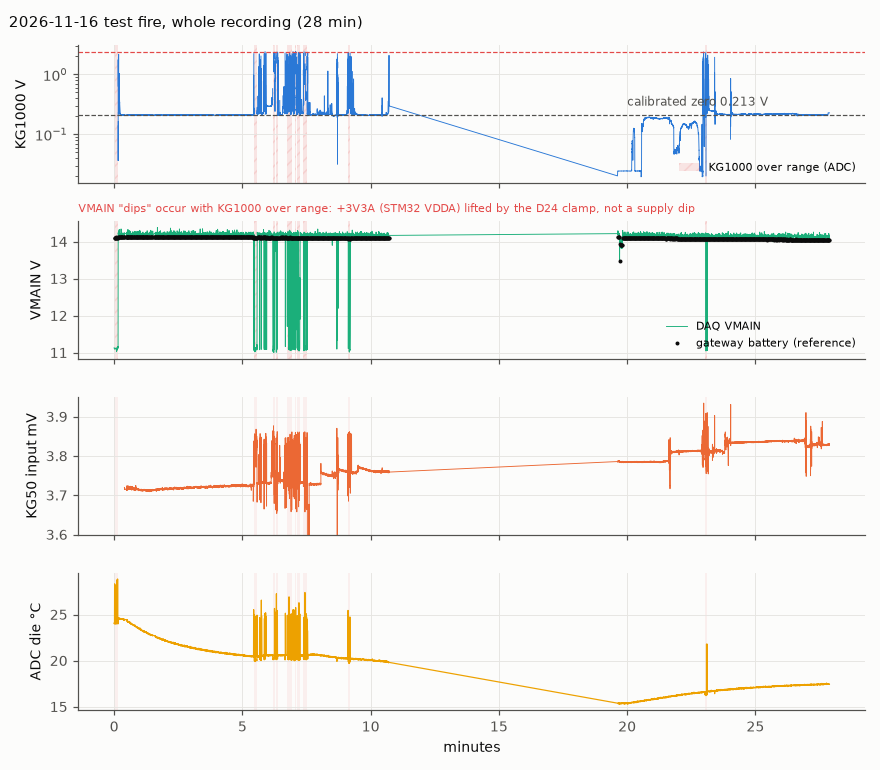
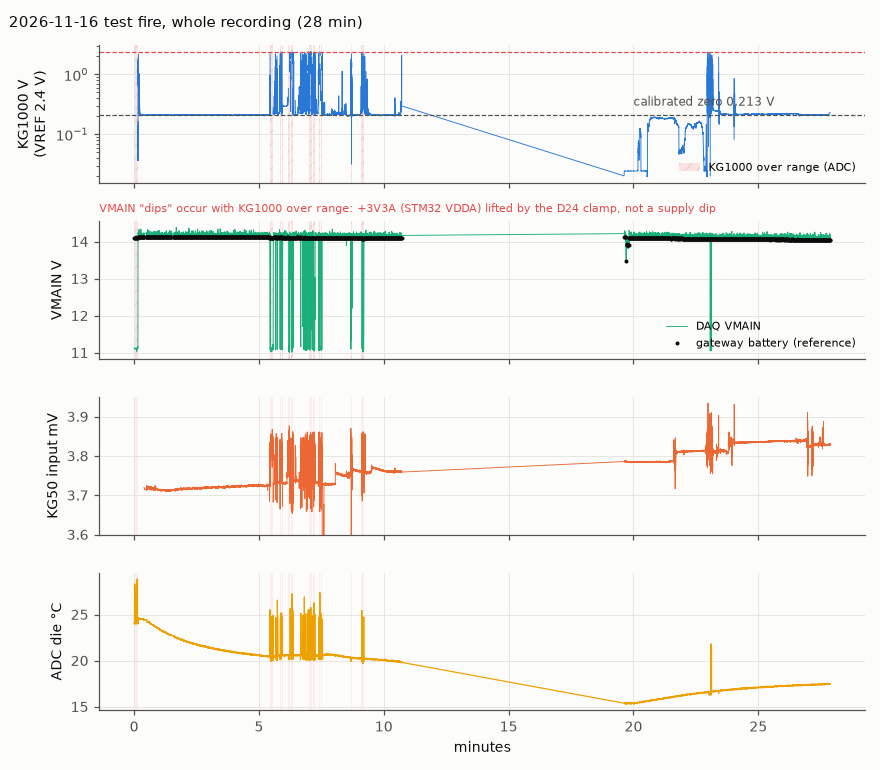
Load-cell investigation: MCP3564R reference is about 2.2 V on this DAQ
The firmware assumed 2.4 V, so MCP-derived volts in the recordings read
about 9 % high; ratiometric results (codes, over range, kg calibrations)
are unaffected and VMAIN (STM32 ADC1 against +3V3A) is unaffected. Note
the 0xB40000 plateau would be about 3.09 V at the pin and why that cannot
coexist with a 4.2 V +3V3A (open bench check). plots.py gains --mcp-vref
(default 2.4 V as recorded) and labels the reference on the axes.

diff --git a/tools/loadcell_investigation/plots.py b/tools/loadcell_investigation/plots.py
@@ -1,6 +1,10 @@
 #!/usr/bin/env python3
 """Figures for docs/loadcell-investigation-2026-11.md.
-Usage: plots.py NPZ_DIR OUT_DIR [FIGURE...]   (FIGURE: a function name below; default all)"""
+Usage: plots.py [--mcp-vref V] NPZ_DIR OUT_DIR [FIGURE...]   (FIGURE: a function name below; default all)
+--mcp-vref: the board's real MCP3564R reference for MCP-derived volts (KG1000, KG50). The
+recordings were converted with the nominal 2.4 V (the default); the fire-campaign DAQ's
+reference measures about 2.2 V, so its volts read about 9 % high. Codes, over range and
+kg calibrations are ratiometric and do not depend on it."""
 import sys, os
 import numpy as np
 import matplotlib
@@ -30,6 +34,13 @@ LEGACY_PER_CODE = 2.2104 / 2 ** 27
 OVER_RANGE_LABEL = 'KG1000 over range (ADC)'
 # Firmware of the time converted the STM32 ADC1 VMON channel assuming VDDA = +3V3A = 3.3 V.
 VDDA_ASSUMED = 3.3
+# Reference the recordings' MCP volts were converted with, and the one to plot them at.
+MCP_VREF_RECORDED = 2.4
+MCP_VREF = MCP_VREF_RECORDED
+
+def mcp_v(x):
+    """MCP-derived volts rescaled from the recorded 2.4 V reference to MCP_VREF."""
+    return np.asarray(x, float) * (MCP_VREF / MCP_VREF_RECORDED)
 
 def kg1000_code(raw):
     return np.asarray(raw, float) / LEGACY_PER_CODE
@@ -100,13 +111,14 @@ def fire_ignition(d, out):
                  f'(recording 2026-11-17 00:59:46 UTC + {FIRE_T0_OFFSET_MS / 1000:g} s)',
                  x=0.01, ha='left', fontsize=10, color=INK)
     m1 = win(t1); ov = over_range(kg1000_code(k1)); band = spans(rel(t1)[m1], ov[m1])
-    ax[0].plot(rel(t1)[m1], without(k1[m1] * K, ov[m1]), color=BLUE); ax[0].axhline(2.4, color=RED, lw=0.8, ls='--')
-    ax[0].set_ylabel('DAQ KG1000\nADC-pin V'); ax[0].text(lo_s + 0.2, 2.45, 'ADC full scale 2.4 V', color=RED, fontsize=8)
+    ax[0].plot(rel(t1)[m1], without(mcp_v(k1[m1] * K), ov[m1]), color=BLUE); ax[0].axhline(MCP_VREF, color=RED, lw=0.8, ls='--')
+    ax[0].set_ylabel(f'DAQ KG1000\nADC-pin V\n(VREF {MCP_VREF:g} V)')
+    ax[0].text(lo_s + 0.2, MCP_VREF + 0.05, f'ADC full scale = VREF = {MCP_VREF:g} V', color=RED, fontsize=8)
     ax[0].set_ylim(0, 2.9)
-    ax[0].text(lo_s + 0.2, 1.2, 'over range: code > 2^23−1 (plateau 0xB40000, the old "3.375 V"),\n'
-               'an overloaded ADC code, not a reading; not plotted', fontsize=8, color=RED)
+    ax[0].text(lo_s + 0.2, 1.2, f'over range: code > 2^23−1 (plateau 0xB40000 = 1.40625 × full scale, '
+               f'"{1.40625 * MCP_VREF:.3f} V"),\nan overloaded ADC code, not a reading; not plotted', fontsize=8, color=RED)
     t5, k5 = s(z, 'DAQ|KG50'); m5 = win(t5)
-    ax[1].plot(rel(t5)[m5], k5[m5] * 1000, color=ORANGE); ax[1].set_ylabel('DAQ KG50 (P6)\ninput mV')
+    ax[1].plot(rel(t5)[m5], mcp_v(k5[m5]) * 1000, color=ORANGE); ax[1].set_ylabel('DAQ KG50 (P6)\ninput mV')
     tp, vm = s(z, 'DAQ|DAQ_POWER_MONITOR', 2); mp = win(tp)
     ax[2].plot(rel(tp)[mp], vm[mp], color=AQUA, marker='.', ms=2, lw=0.8); ax[2].set_ylabel('DAQ VMAIN V\n(4 Hz)')
     tg, vg = s(z, 'GB|BATTERY_VOLTAGE'); mg = win(tg)
@@ -138,7 +150,7 @@ def fire_ignition(d, out):
     ax[5].text(0.2, 300, 'KG1000 back in range, VMAIN\nartifact ends / burn starts', fontsize=8, color=MUTED)
     fig.tight_layout(); fig.savefig(os.path.join(out, 'fire-20261116-ignition.png'), dpi=110); plt.close(fig)
     write_wide_csv(os.path.join(out, 'fire-20261116-ignition.csv'), T0,
-                   [('kg1000_adc_pin_v', t1[m1], k1[m1] * K), ('kg50_p6_input_mv', t5[m5], k5[m5] * 1000),
+                   [('kg1000_adc_pin_v', t1[m1], mcp_v(k1[m1] * K)), ('kg50_p6_input_mv', t5[m5], mcp_v(k5[m5]) * 1000),
                     ('vmain_v', tp[mp], vm[mp]), ('gb_battery_v', tg[mg], vg[mg]),
                     ('gb_battery_a', ti[mi], ig[mi]), ('ox_tank_psi', tf[mf], fp[mf])])
 
@@ -176,8 +188,8 @@ def kg1000_log_panels(z, title, n):
     mins = lambda t: (t - t0) / 60000.0
     ov = over_range(kg1000_code(k1)); band = spans(mins(t1), ov)
     fig, ax = panels(n, title)
-    ax[0].plot(mins(t1), without(k1 * K, ov), color=BLUE, lw=0.6); ax[0].set_ylabel('KG1000 V'); ax[0].set_yscale('log')
-    ax[0].axhline(2.4, color=RED, lw=0.8, ls='--')
+    ax[0].plot(mins(t1), without(mcp_v(k1 * K), ov), color=BLUE, lw=0.6); ax[0].set_ylabel(f'KG1000 V\n(VREF {MCP_VREF:g} V)')
+    ax[0].set_yscale('log'); ax[0].axhline(MCP_VREF, color=RED, lw=0.8, ls='--')
     tp, vm = s(z, 'DAQ|DAQ_POWER_MONITOR', 2)
     ax[1].plot(mins(tp), vm, color=AQUA, lw=0.6, label='DAQ VMAIN'); ax[1].set_ylabel('VMAIN V')
     battery_reference(ax[1], z, mins)
@@ -192,21 +204,25 @@ def fire_overview(d, out):
     """Whole 11-16 fire recording: KG1000, DAQ VMAIN, KG50 and the ADC die temperature on
     one minutes axis from the first KG1000 sample. Also writes every plotted sample to
     fire-20261116-overview.csv (wide, full resolution; see write_wide_csv): kg1000_adc_pin_v
-    (including the over-range samples the figure leaves out), vmain_v, kg50_p6_input_mv (only after 0.4 min, as plotted; the panel's y-limits 3.6-3.95 mV clip
-    a few points that are still in the CSV) and adc_die_temp_c. The dashed 0.2126 V
+    (including the over-range samples the figure leaves out), vmain_v, kg50_p6_input_mv
+    (only after 0.4 min, as plotted; the panel's y-limits 3.6-3.95 mV clip a few points
+    that are still in the CSV) and adc_die_temp_c; MCP volts at --mcp-vref, as plotted. The dashed 0.2126 V
     calibrated-zero line is a constant and not a CSV column."""
     z = load(d, '2026-11-17_00-59-46_065')
     fig, ax, mins = kg1000_log_panels(z, '2026-11-16 test fire, whole recording (28 min)', 4)
-    ax[0].axhline(0.2126, color=MUTED, lw=0.8, ls='--'); ax[0].text(20, 0.3, 'calibrated zero 0.213 V', fontsize=8, color=MUTED)
+    z0 = float(mcp_v(0.2126)); ax[0].axhline(z0, color=MUTED, lw=0.8, ls='--')
+    ax[0].text(20, 0.3, f'calibrated zero {z0:.3f} V', fontsize=8, color=MUTED)
     t5, k5 = s(z, 'DAQ|KG50'); g = mins(t5) > 0.4
-    ax[2].plot(mins(t5)[g], k5[g] * 1000, color=ORANGE, lw=0.6); ax[2].set_ylabel('KG50 input mV'); ax[2].set_ylim(3.6, 3.95)
+    ax[2].plot(mins(t5)[g], mcp_v(k5[g]) * 1000, color=ORANGE, lw=0.6); ax[2].set_ylabel('KG50 input mV')
+    ax[2].set_ylim(*mcp_v([3.6, 3.95]))
     tt, tc = s(z, 'DAQ|DAQ_ADC_TEMPERATURE')
     ax[3].plot(mins(tt), tc, color=YELLOW, lw=0.8); ax[3].set_ylabel('ADC die °C'); ax[3].set_xlabel('minutes')
     fig.tight_layout(); fig.savefig(os.path.join(out, 'fire-20261116-overview.png'), dpi=110); plt.close(fig)
     t1, k1 = s(z, 'DAQ|KG1000')
     tp, vm = s(z, 'DAQ|DAQ_POWER_MONITOR', 2)
     write_wide_csv(os.path.join(out, 'fire-20261116-overview.csv'), t1[0],
-                   [('kg1000_adc_pin_v', t1, k1 * K), ('vmain_v', tp, vm), ('kg50_p6_input_mv', t5[g], k5[g] * 1000), ('adc_die_temp_c', tt, tc)])
+                   [('kg1000_adc_pin_v', t1, mcp_v(k1 * K)), ('vmain_v', tp, vm),
+                    ('kg50_p6_input_mv', t5[g], mcp_v(k5[g]) * 1000), ('adc_die_temp_c', tt, tc)])
 
 def rail_1106(d, out):
     z = load(d, '2026-11-06_22-51-01_544')
@@ -248,10 +264,13 @@ def kg50_cross_check(d, out):
     fig.tight_layout(); fig.savefig(os.path.join(out, 'kg50-p6-cross-check.png'), dpi=110); plt.close(fig)
 
 if __name__ == '__main__':
-    d, out = sys.argv[1], sys.argv[2]
+    args = sys.argv[1:]
+    if args[:1] == ['--mcp-vref']:
+        MCP_VREF = float(args[1]); args = args[2:]
+    d, out = args[0], args[1]
     os.makedirs(out, exist_ok=True)
     figs = {'fire_ignition': lambda: fire_ignition(d, out), 'fire_overview': lambda: fire_overview(d, out),
             'rail_1106': lambda: rail_1106(d, out), 'calibration_steps': lambda: calibration_steps(out),
             'kg50_cross_check': lambda: kg50_cross_check(d, out)}
-    for name in sys.argv[3:] or figs:
+    for name in args[2:] or figs:
         figs[name]()

diff --git a/tools/loadcell_investigation/test_plots.py b/tools/loadcell_investigation/test_plots.py
@@ -36,6 +36,15 @@ class OverRangeTests(unittest.TestCase):
         # The run before the 4 -> 100 gap stops one sample interval later; the last run likewise.
         self.assertEqual(plots.spans(x, m), [(0.0, 2.0), (4.0, 5.0), (101.0, 102.0)])
 
+    def test_mcp_vref_rescales_volts_only(self):
+        self.assertEqual(plots.mcp_v(2.4).item(), 2.4)  # default: as recorded
+        old = plots.MCP_VREF
+        try:
+            plots.MCP_VREF = 2.2
+            self.assertAlmostEqual(plots.mcp_v(3.375).item(), 3.09375)
+        finally:
+            plots.MCP_VREF = old
+
     def test_without_breaks_line(self):
         y = plots.without(np.array([1.0, 2.0, 3.0]), np.array([False, True, False]))
         self.assertTrue(np.isnan(y[1]))

diff --git a/docs/loadcell-investigation-2026-11.md b/docs/loadcell-investigation-2026-11.md
@@ -97,6 +97,31 @@ when the cell is excited, 0.17–0.19 V on the bench.
 "VMAIN min" is the DAQ's own reading. The 10.31 V and 11.00 V minima are not real battery
 voltages: they were read while +3V3A was lifted (§2.3).
 
+### 1.1 MCP3564R reference: ≈2.2 V on this DAQ, not 2.4 V (added 2026-11-23)
+
+This DAQ's MCP3564R internal reference measures **≈2.2 V**, not the nominal 2.4 V. It
+drifted after heat during a board repair, and the board is due for repair in December. The
+firmware assumed 2.4 V, so **every MCP3564R volt in these recordings reads ≈9 % high**
+(2.4 / 2.2 = 1.091). That covers KG1000/AMP2 pin volts, the P6 KG50 input, the single-ended
+P6 legs, the chamber PT and the other HVAIN inputs, and the ADC die temperature.
+
+- **Ratiometric results are unaffected.** Codes, over range (|code| > 2²³ − 1), the kg
+  calibrations fitted on those volts, the KG50 vs (CH2 − CH3) ratio, step sensitivities, R²,
+  correlations and drift in kg are all ratios to the same code scale. None of the
+  conclusions that rest on them change.
+- **Absolute volts are ≈9 % high.** Examples: the KG1000 zero 0.209 V is ≈0.19 V at the pin,
+  the bench AMP1 bias 0.2277 V is ≈0.209 V, the P6 common mode 1.137 V is ≈1.04 V, and the
+  chamber psig (connector V × 200) was ≈9 % high. Numbers in this report are left as
+  recorded; where an absolute volt matters it is marked.
+- **VMAIN is not affected.** It is measured by the STM32 ADC1 against VDDA/VREF+ = +3V3A, not
+  against the MCP reference. The +3V3A estimates in §2.3.2 (≈4.19 V fire, ≈4.18 V 11-06)
+  are unchanged by this correction.
+- The firmware now takes the reference from a per-board GS setting (`DAQ_MCP_REFERENCE`,
+  default 2.4 V; this station 2.2 V, "measured approx., re-measure after the December
+  repair"). It is recorded in DAQ_INPUT_HEALTH word 27 and on the SD card as `mcp_vref_v`.
+- The figures keep the recorded 2.4 V scale and say so on the axis. `plots.py --mcp-vref 2.2`
+  redraws the MCP-derived volts at this board's reference.
+
 ## 2. Findings with evidence
 
 ### 2.1 KG50 was the P6 differential input in every site session
@@ -113,8 +138,8 @@ This settles several things:
 - **The sensor chain was stable across sessions.**
   - The ratio between two independent ADC paths stays within ±1 %, so the PGA and
     reference did not change.
-  - The bridge common mode stays at 1.137 ± 0.001 V, so excitation from `+VREF_BUF` is
-    stable to ~0.1 %.
+  - The bridge common mode stays at 1.137 ± 0.001 V (≈1.04 V real, §1.1), so excitation
+    from `+VREF_BUF` is stable to ~0.1 %.
   - A wiring fault that changes sensitivity (high-resistance excitation pin, open sense
     lead) would move the common mode or the ratio. Neither moved.
 - **The 12 915 calibration was a P6-volts calibration.** It is not an AMP2 raw-count one.
@@ -140,9 +165,11 @@ migration (legacy raw × 16000/921).
 
 **KG1000.** The calibration is sound for what it covers.
 
-- The zero is 0.2126 V, against an AMP1 nominal bias of 0.218 V.
+- The zero is 0.2126 V, against an AMP1 nominal bias of 0.218 V. (At the ≈2.2 V reference
+  of §1.1 the zero is ≈0.195 V at the pin.)
 - 545.8 kg/V implies 1.83 mV/V at 9.6 V excitation and 100.9× gain, which is physical for
-  a 2 mV/V cell. This also confirms the legacy-raw→volts factor k = 16000/921.
+  a 2 mV/V cell. (With the ≈2.2 V reference the volts per kg are ≈9 % lower, ≈1.68 mV/V;
+  still physical. The kg calibration itself is ratiometric and unaffected.) This also confirms the legacy-raw→volts factor k = 16000/921.
 - It covers only 10 % of the 1000 kg range and has never been checked against thrust.
 
 **KG50.** The points are inconsistent in a way electronics cannot explain.
@@ -213,9 +240,10 @@ shade their intervals (hatched, "KG1000 over range (ADC)") in every panel.
 
 #### 2.3.1 The "3.375 V" plateau is an over-range code, not a reading
 
-KG1000 sat at code **0xB40000** = +11 796 480 = 1.40625 × 2²³. On the 2.4 V scale that is
-1.40625 × 2.4 V = 3.375 V, which earlier versions of this report and its plots gave as a
-voltage. The MCP3564R datasheet (DS20006391C) says it is not one:
+KG1000 sat at code **0xB40000** = +11 796 480 = 1.40625 × 2²³, i.e. 1.40625 × full scale.
+On the assumed 2.4 V scale that is 1.40625 × 2.4 V = 3.375 V, which earlier versions of
+this report and its plots gave as a voltage. With this board's real ≈2.2 V reference
+(§1.1) the same code would be ≈3.09 V. The MCP3564R datasheet (DS20006391C) says it is not one:
 
 - **§5.6 "ADC Output Data Format"** (p. 48–49, Tables 5-7 and 5-8, Figure 5-8) and the
   CONFIG3 `DATA_FORMAT[1:0]` description (§8):
@@ -226,7 +254,8 @@ voltage. The MCP3564R datasheet (DS20006391C) says it is not one:
     [−2·VREF, +2·VREF − 1 LSb], and codes saturate at 0x0FFFFFF (+16 777 215) /
     0x1000000 (−16 777 216).
   - "The ADC accuracy is not maintained on the full extended range, but only on a smaller
-    range, which is approximately equal to ±1.05 × VREF." That is ±2.52 V here.
+    range, which is approximately equal to ±1.05 × VREF." That is ±2.31 V at the real
+    ≈2.2 V reference (±2.52 V at the nominal 2.4 V).
   - There is **no over-range status bit**. Over range is visible only as
     |code| > 2²³ − 1.
 - **§3.2**: "The differential input voltage should not exceed an absolute of ±VREF/GAIN for
@@ -235,7 +264,8 @@ voltage. The MCP3564R datasheet (DS20006391C) says it is not one:
   Absolute maximum ratings: AVDD −0.3 to 4.0 V; analog inputs −0.3 V to AVDD + 0.3 V.
 
 So 0xB40000 is neither a measurement nor the documented clip: the 25-bit clip would be
-0x0FFFFFF (≈4.8 V equivalent), and 3.375 V is far outside the ±1.05·VREF accuracy range.
+0x0FFFFFF (≈4.4 V equivalent at 2.2 V, ≈4.8 V at 2.4 V), and 1.40625 × VREF is far outside
+the ±1.05·VREF accuracy range.
 It is an **over-range (overloaded) code**.
 
 - The code is bit-exact and constant, with its low 18 bits zero, and held for seconds at
@@ -245,7 +275,18 @@ It is an **over-range (overloaded) code**.
   drop by D24 (§2.3.2).
 - The reference did not collapse. A collapsing VREF would make the codes larger, noisy and
   tracking VMAIN, not one fixed code. The internal 2.4 V bandgap is specified for AVDD
-  2.7–3.6 V.
+  2.7–3.6 V. (Its static ≈2.2 V value on this board, §1.1, is a separate, permanent offset
+  from the repair, not a collapse during the intervals.)
+**Plateau as a pin voltage: 3.09 V vs the +3V3A lift (open check).** Rescaled to the real
+reference, the plateau is ≈3.09 V. Read as a pin voltage, that fits a Schottky (D24) clamp
+to an *un-lifted* +3V3A of ≈2.9–3.3 V better than 3.375 V did. But under the lift
+hypothesis (§2.3.2) +3V3A was ≈4.2 V during those same intervals, which would put the D24
+clamp, and the MCP's own AVDD + 0.3 V input limit, well above 3.09 V. Both cannot describe
+the same instant. This supports reading the plateau as an overloaded-modulator code with no
+defined meaning (beyond ±1.05·VREF), not as a pin voltage. The alternative is that the lift
+was smaller or intermittent. The bench test (§2.3.4) settles it by scoping AMP1_OUT at the
+MCP pin, +3V3A and REFIN+ together.
+
 - On 11-06 the same plateau reads 0xB3FFFA–0xB3FFFE after the legacy float round trip,
   i.e. the same code.
 - Over range in the recordings: 2 259 of 45 300 KG1000 samples at the fire, 416 of 16 948
@@ -271,7 +312,9 @@ through ≈2.2 kΩ and 100 Ω, feeds MCP3564R CH0 and is clamped to +3V3A by Sch
 5. The MCP3564R's AVDD is +3V3A too, so its die-temperature sensor and reference-dependent
    readings move in the same intervals.
 
-**Arithmetic.** The battery voltage is known independently from the gateway (§2.3.3):
+**Arithmetic.** The battery voltage is known independently from the gateway (§2.3.3).
+VMON goes through the STM32 ADC1 against +3V3A, not through the MCP3564R, so the MCP
+reference correction (§1.1) does not change any of these numbers:
 
 | | DAQ VMAIN read (median) | Gateway battery | VMAIN / battery | Implied +3V3A = 3.3 V × battery / VMAIN |
 |---|---|---|---|---|
@@ -333,7 +376,8 @@ low" (< 3.15 V) faults. The GS warns, critical above 3.6 V.
 - **The MCP3564R moves with it.** Its die-temperature reading jumped about +5 °C in each
   interval, and KG50 (on the same ADC) showed ±0.1 mV spikes plus +0.1/+0.36 kg steps that
   persisted. Its single-ended P6 readings (CH2, CH3) read 2.2 % higher (1.139 → 1.165 V
-  median). The P6 bridge is ratiometric to the MCP reference, so this points at the ADC,
+  median, as recorded; ≈1.04 → 1.07 V at the real ≈2.2 V reference — the 2.2 % is a ratio
+  and unaffected). The P6 bridge is ratiometric to the MCP reference, so this points at the ADC,
   not the bridge.
 - **DAQ input current.** The DAQ's own input-current reading rose from 0.084 A to 0.104 A
   during the intervals (both nights). Corrected by the 0.782 VDDA factor that is ≈0.13 A,
@@ -350,7 +394,7 @@ low" (< 3.15 V) faults. The GS warns, critical above 3.6 V.
 - **Exceptions.** Over range without a VMAIN dip exists: one 2.6 s plateau run at
   T0 + 368.8 s (VMAIN 14.11 V), the 4.3 s run on 11-06 at 10.8 min (VMAIN 13.29 V), and
   most of the sub-second runs during the burn. Over range is therefore necessary but not
-  sufficient. That fits the mechanism: the MCP reports over range once AMP1_OUT passes 2.4 V, but D24
+  sufficient. That fits the mechanism: the MCP reports over range once AMP1_OUT passes VREF (≈2.2 V), but D24
   only carries significant current once AMP1_OUT exceeds +3V3A + V_F (≈3.6 V), and a
   sub-second excursion can fall between 4 Hz VMAIN samples. The bench test settles it.
 
@@ -452,7 +496,8 @@ The 0.2126 V calibrated-zero line is a constant and is not a column.
   would suggest the gap closing (valve steps ≤0.4 kg).
 - **KG1000 site vs bench zero.** The site zero (0.207–0.213 V) is 15–20 mV below the bench
   reading (0.2277 V). The bench reading is the amplifier bias with no cell, so the
-  difference is the cell's own offset, not a site effect.
+  difference is the cell's own offset, not a site effect. (All three are ≈9 % high in
+  absolute volts, §1.1; the difference is ≈14–18 mV real.)
 - **KG50 fire-night drift.** This is the largest site-only accuracy problem after
   calibration. The die temperature is not a load-cell temperature, but the box and the
   cell cooled together after dark, so the correlation is consistent with a
@@ -476,7 +521,9 @@ The 0.2126 V calibrated-zero line is a constant and is not a column.
   site sessions. Wind could still bias the *mean* through side load on a single rod, which
   noise statistics cannot see. It needs the push test in §5.
 - **The old firmware conversion.**
-  - Legacy raw × k gives the AMP1 bias exactly.
+  - Legacy raw × k gives the AMP1 bias closely (0.2277 V recorded vs 0.218 V nominal; at
+    the real ≈2.2 V reference it is ≈0.209 V, so this check fits within ≈4–5 % either way
+    and does not distinguish the two references).
   - The KG1000 sensitivity is physical.
   - P6 was volts all along.
   - No scale or sign bug was found in the old DAQ/GS logic. The KG1000 slope was constant
@@ -527,7 +574,7 @@ The 0.2126 V calibrated-zero line is a constant and is not a column.
    - Watch the logged P6 CM in future recordings.
 10. **AMP1/AMP2 headroom.**
     - AMP1's 0.218 V bias leaves only ~0.19 V (≈100 kg) below zero before the amplifier
-      floor.
+      floor. (The kg figure is ratiometric; the volts are ≈9 % high, §1.1.)
     - Fine for compression thrust, but a tension pull or the gap-closing ringing at
       ignition will clip.
     - AMP2 (P8) is not used.
@@ -711,7 +758,7 @@ Log GS recordings throughout. Each step names the hypothesis it tests. Do them i
 
 | # | Test | Pass/fail signal | Separates |
 |---|---|---|---|
-| 1 | DMM at the DAQ connector: P8/P7 pin 1→2 (9.6 V), P6 pin 1→2 (2.4 V), each signal line to DAQ GND, unloaded and with a known mass | Excitation within 1 %; signal CM ≈ excitation/2; Δsignal = mV/V × excitation × m/FS | Excitation, wiring, common mode |
+| 1 | DMM at the DAQ connector: P8/P7 pin 1→2 (9.6 V), P6 pin 1→2 (2.4 V nominal; ≈2.2 V on this board until the December repair, §1.1), each signal line to DAQ GND, unloaded and with a known mass | Excitation within 1 %; signal CM ≈ excitation/2; Δsignal = mV/V × excitation × m/FS | Excitation, wiring, common mode |
 | 2 | Same at the cell end, through the field harness | ≤10 mV excitation difference | Cable/connector resistance |
 | 3 | Wiggle each connector and cable for 30 s while logging | No step > 0.1 kg | Intermittent pins (KG1000 lead) |
 | 4 | Run the DAQ from an isolated battery, nothing else connected, then reconnect CAN, stand, VB/AB, one at a time; log VMAIN, VDDA (word 25) and the gateway battery | Any KG step on a connection, with +3V3A in 3.15–3.45 V and no over-range flag | Supply/ground loop (no longer the explanation of the VMAIN dips, §2.3.5) |
